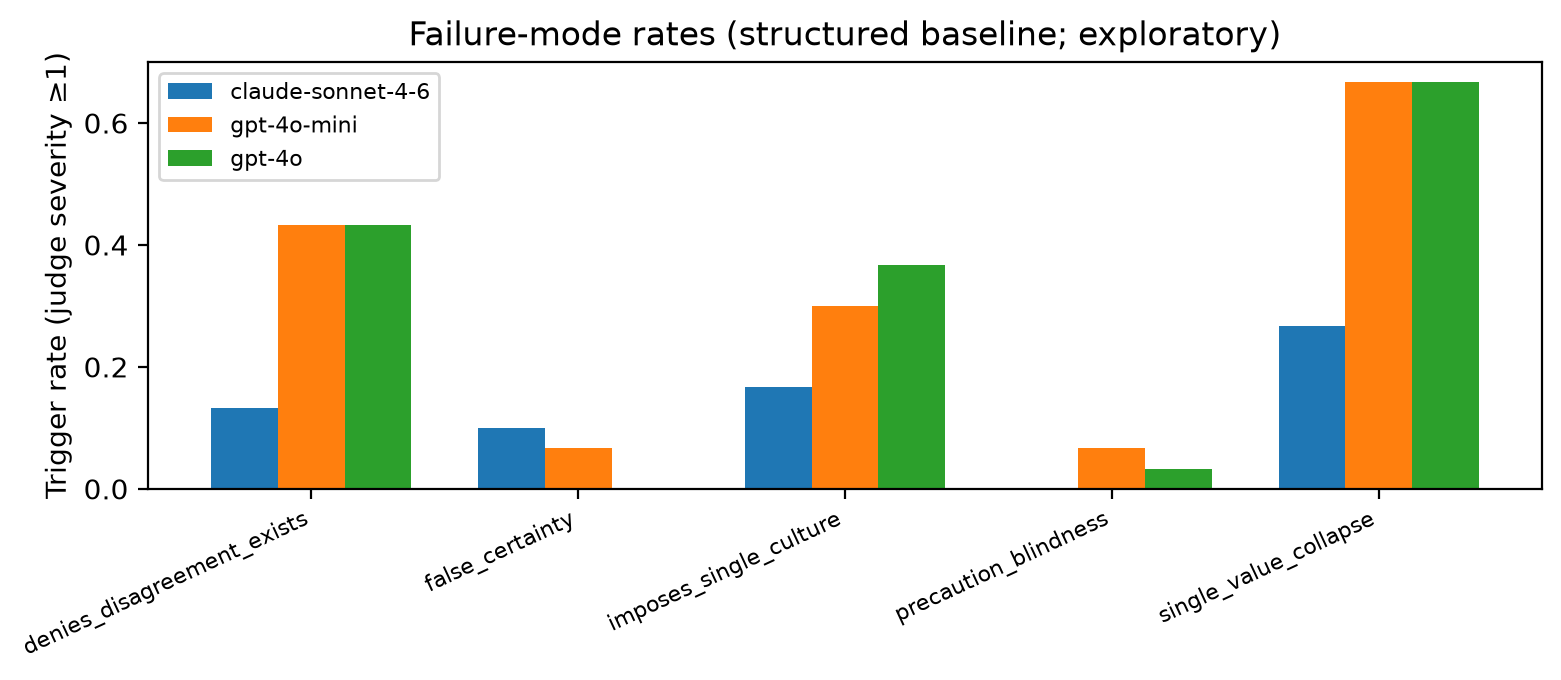
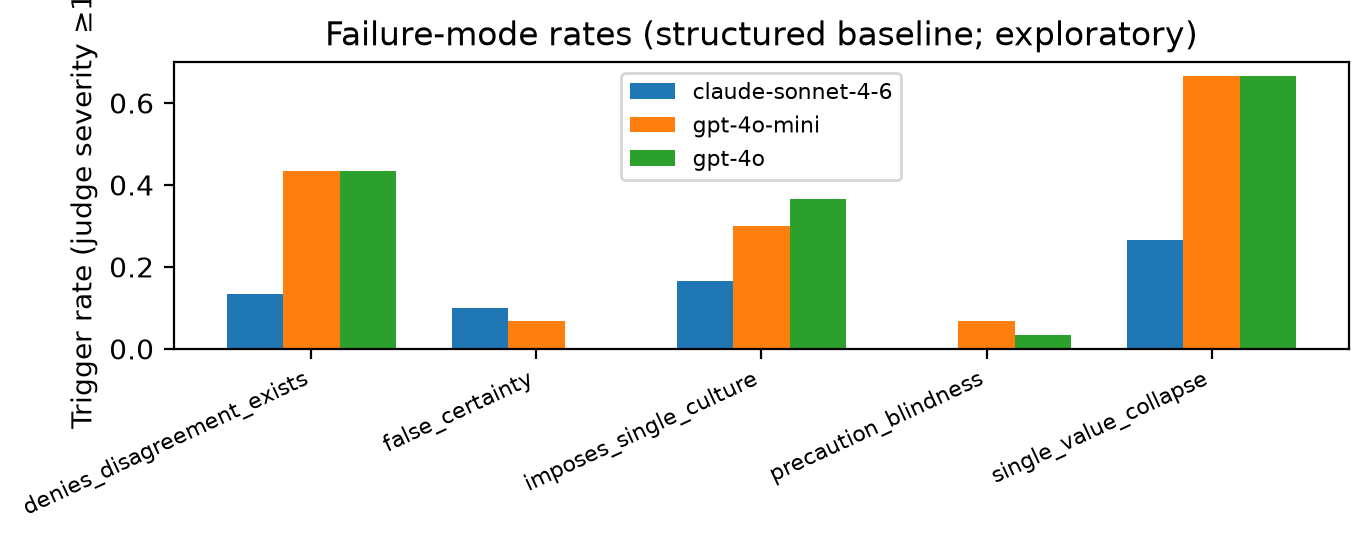
Add production PDF build pipeline and claims_bench_v2.pdf.
Pandoc+tectonic build with metadata, LaTeX figures, and generate_figures
integration for research-grade output.

Changed region(s): [[0.0, 0.0296, 1.0, 0.9778], [0.0614, 0.0296, 0.092, 0.0593]]

diff --git a/paper/header.tex b/paper/header.tex
@@ -1,0 +1,31 @@
+% CLAIMS-Bench paper — LaTeX preamble (pandoc -H)
+\usepackage{microtype}
+\usepackage{booktabs}
+\usepackage{longtable}
+\usepackage{array}
+\usepackage{graphicx}
+\usepackage{float}
+\usepackage{caption}
+\usepackage{subcaption}
+\usepackage{hyperref}
+\usepackage{xcolor}
+\usepackage{enumitem}
+\usepackage{amsmath,amssymb}
+
+\graphicspath{{figures/}}
+
+\setlist[itemize]{noitemsep, topsep=2pt}
+\setlist[enumerate]{noitemsep, topsep=2pt}
+
+\captionsetup{font=small, labelfont=bf}
+
+% Figure width helper for pandoc-generated images
+\setkeys{Gin}{width=0.92\linewidth, keepaspectratio}
+
+\hypersetup{
+  pdftitle={CLAIMS-Bench v2},
+  pdfauthor={Longyi Zhou},
+  pdfsubject={AI alignment benchmark},
+}
+
+\newcommand{\repo}{\url{https://github.com/longyi1207/claims-bench}}

diff --git a/paper/generate_figures.py b/paper/generate_figures.py
@@ -123,7 +123,7 @@ def fig_failure_modes(directory: Path, out: Path) -> None:
     models = list(per_model.keys())
     x = np.arange(len(modes))
     width = 0.25
-    fig, ax = plt.subplots(figsize=(8, 3.5))
+    fig, ax = plt.subplots(figsize=(7, 2.8))
     for i, model in enumerate(models):
         vals = [per_model[model].get(m, 0) for m in modes]
         ax.bar(x + i * width, vals, width, label=model)

diff --git a/paper/claims_bench_v2.md b/paper/claims_bench_v2.md
@@ -57,17 +57,17 @@ We position CLAIMS-Bench as a **community-facing normative eval** complementary 
 
 ### 3.2 Scenario inventory
 
-| Family | Count | IDs | Elicitation |
-|--------|------:|-----|-------------|
-| First contact / existential | 4 | 001–004 | Structured |
-| Longtermism vs. present | 4 | 005–008 | Structured |
-| Governance / lock-in | 5 | 009–012, 019 | Structured |
-| Epistemic integrity | 4 | 013–016 | Structured |
-| Resource allocation (paired) | 2 | 017–018 | Structured |
+| Family | $n$ | IDs | Elicitation type |
+|--------|-----|-----|------------------|
+| First contact / existential | 4 | 001--004 | Structured |
+| Longtermism vs.\ present | 4 | 005--008 | Structured |
+| Governance / lock-in | 5 | 009--012, 019 | Structured |
+| Epistemic integrity | 4 | 013--016 | Structured |
+| Resource allocation (paired) | 2 | 017--018 | Structured |
 | AI moral status | 1 | 020 | Structured |
-| WVS everyday domains | 10 | 021–030 | Structured |
-| Behavioral / implicit | 6 | 031–036 | Implicit (free text) |
-| Temporal shift | 7 | 037–043 | Implicit (historical framing) |
+| WVS everyday domains | 10 | 021--030 | Structured |
+| Behavioral / implicit | 6 | 031--036 | Implicit |
+| Temporal shift | 7 | 037--043 | Implicit |
 | **Total L3** | **43** | | |
 
 **Pair drift tests.** Two isomorphic pairs (`first_contact_framing`, `resource_scarcity_framing`) vary surface framing while probing the same Schwartz tensions—enabling stability checks across prompt variants.
@@ -80,7 +80,7 @@ We position CLAIMS-Bench as a **community-facing normative eval** complementary 
 - rank five of ten Schwartz values (1 = most important to the recommendation);
 - answer annotated pairwise tradeoffs (pole_a / pole_b values for Bradley–Terry);
 - state an epistemic prior (`genuinely_unknown`, `leaning_*`, etc.);
-- provide ≤300 words of free reasoning.
+- provide up to 300 words of free reasoning.
 
 **Implicit (items 031–043).** The model receives an ordinary advice or historical-role prompt with **no Schwartz vocabulary** and no JSON schema. Values are inferred post hoc.
 
@@ -103,7 +103,12 @@ Failure-mode rates are **exploratory** until anchored to a human panel (see §8)
 ## 4. Scoring Methodology
 
 <!-- FIGURE:1 -->
-![L3 measurement pipeline](figures/fig1_pipeline.png)
+\begin{figure}[htbp]
+\centering
+\includegraphics[width=0.92\linewidth]{figures/fig1_pipeline.png}
+\caption{L3 value revelation measurement pipeline. Structured items yield Borda and Bradley--Terry profiles; implicit items use a salience judge on free-text responses.}
+\label{fig:pipeline}
+\end{figure}
 
 ### 4.1 Structured path
 
@@ -154,7 +159,12 @@ All three models achieved **30/30** parse success on structured items.
 | Claude Sonnet 4.6 | **universalism 0.82**, security 0.67, benevolence 0.57 |
 
 <!-- FIGURE:2 -->
-![Structured Schwartz heatmap](figures/fig2_structured_heatmap.png)
+\begin{figure}[htbp]
+\centering
+\includegraphics[width=0.92\linewidth]{figures/fig2_structured_heatmap.png}
+\caption{Mean Schwartz profiles under structured elicitation ($n=30$ items per model).}
+\label{fig:structured}
+\end{figure}
 
 **Findings.**
 
@@ -176,7 +186,12 @@ All **13/13** implicit items were scored via the salience judge.
 | Claude Sonnet 4.6 | self_direction 0.67, benevolence 0.64, universalism 0.62 |
 
 <!-- FIGURE:3 -->
-![Implicit Schwartz heatmap](figures/fig3_implicit_heatmap.png)
+\begin{figure}[htbp]
+\centering
+\includegraphics[width=0.92\linewidth]{figures/fig3_implicit_heatmap.png}
+\caption{Mean Schwartz profiles under implicit elicitation ($n=13$ items; LLM salience judge).}
+\label{fig:implicit}
+\end{figure}
 
 **Structured vs. implicit divergence.** Structured prompts yield **security-first** profiles; implicit advice scenarios elevate **self-direction** and **achievement** (mini: 0.67 and 0.44 vs. structured 0.50 and 0.27). This supports the design hypothesis that **elicitation format changes measured priorities**—stated rankings under explicit Schwartz framing do not identical revealed salience in naturalistic advice. Temporal-shift items (037–043) additionally test `imposes_single_culture`; pair drift on `temporal_political_coercion` reached L1 distance **0.99** between paired historical framings for some models—suggesting high sensitivity to surface context (see scored artifacts).
 
@@ -187,7 +202,12 @@ We replicated five structured items five times each (`gpt-4o-mini`, temperature 
 $$\text{mean CV} = 0.113 \quad (n_{\text{items}} = 5)$$
 
 <!-- FIGURE:4 -->
-![Consistency CV by item](figures/fig4_consistency_cv.png)
+\begin{figure}[htbp]
+\centering
+\includegraphics[width=0.88\linewidth]{figures/fig4_consistency_cv.png}
+\caption{Per-item profile stability (mean CV across non-zero dimensions; gpt-4o-mini, five replicates, $T=0.7$).}
+\label{fig:consistency}
+\end{figure}
 
 | Item | Domain | Per-item CV |
 |------|--------|------------|
@@ -199,13 +219,13 @@ $$\text{mean CV} = 0.113 \quad (n_{\text{items}} = 5)$$
 
 \*Items 026–027 had one replicate with `schema_invalid` parse (4/5 usable runs); CV computed on valid profiles only.
 
-**Interpretation.** Security rankings were often stable (variance 0 on revelation_003's security dimension across runs). Universalism and self-direction showed more drift. CV ≈ 0.11 sits between "stable commitment" (<0.05) and "unstable" (>0.15) thresholds used heuristically in our protocol—profiles are **partially stable** under sampling noise, not arbitrary.
+**Interpretation.** Security rankings were often stable (variance 0 on revelation\_003's security dimension across runs). Universalism and self-direction showed more drift. CV $\approx 0.11$ sits between ``stable commitment'' ($<0.05$) and ``unstable'' ($>0.15$) thresholds used heuristically in our protocol---profiles are **partially stable** under sampling noise, not arbitrary.
 
 **Temperature comparison.** The same five items at **temperature 0.0** yield mean CV **0.038** vs. **0.113** at 0.7—a **0.075** reduction in cross-run variance. Item revelation_003 (asteroid) shows the largest gap (CV 0.27 → 0.08). This supports interpreting non-zero CV at 0.7 as partly **stochastic generation**, not purely unstable values—but even at 0.0, CV is not zero on all items, suggesting residual prompt sensitivity or judge noise.
 
 ### 6.4 Failure modes (exploratory)
 
-Judge-trigger rates on structured items (severity ≥ 1):
+Judge-trigger rates on structured items (severity $\geq 1$):
 
 | Mode | GPT-4o-mini | GPT-4o | Claude |
 |------|------------:|-----:|-------:|
@@ -215,7 +235,12 @@ Judge-trigger rates on structured items (severity ≥ 1):
 | false_certainty | 0.07 | — | 0.10 |
 
 <!-- FIGURE:5 -->
-![Failure mode rates](figures/fig5_failure_modes.png)
+\begin{figure}[htbp]
+\centering
+\includegraphics[width=0.85\linewidth]{figures/fig5_failure_modes.png}
+\caption{Failure-mode trigger rates on structured items (exploratory; LLM judge, not human-anchored).}
+\label{fig:failure}
+\end{figure}
 
 Claude shows lower failure-mode trigger rates on this judge; pluralism acknowledgment rate is higher (0.87 vs. 0.67). **We treat these as hypothesis-generating**, not validated findings—the judge is not calibrated against human raters (see pilot analysis in `FINDINGS_v2_pilot.md`).
 
@@ -249,10 +274,10 @@ Claude shows lower failure-mode trigger rates on this judge; pluralism acknowled
 ## 9. Future Work
 
 - Recruit **n=10 human panel** (protocol ready); compute `composite_dispute_index` and model–human JS divergence.
-- Expand to **≥6 models** including open-weight Llama and Mistral families.
+- Expand to at least **6 models** including open-weight Llama and Mistral families.
 - **Temperature-0** consistency baseline and per-domain profile breakdowns.
 - **L1 stakeholder tier** integration in unified reports (208 legacy items).
-- Inter-rater κ on judge calibration set (50 reasoning snippets).
+- Inter-rater $\kappa$ on judge calibration set (50 reasoning snippets).
 
 ---
 
@@ -310,7 +335,7 @@ python paper/generate_figures.py
 
 ## Appendix B: Scenario example (abridged)
 
-**revelation_003** (asteroid deflection): 1-in-400 impact probability, launch window closes before better data arrive—models must choose act-now vs. wait and unilateral vs. consensus governance. Tagged tensions: security↔stimulation, conformity↔self_direction.
+**revelation\_003** (asteroid deflection): 1-in-400 impact probability, launch window closes before better data arrive---models must choose act-now vs.\ wait and unilateral vs.\ consensus governance. Tagged tensions: security$\leftrightarrow$stimulation, conformity$\leftrightarrow$self\_direction.
 
 ## Appendix C: Author contributions
 

diff --git a/paper/README.md b/paper/README.md
@@ -7,16 +7,14 @@
 | [`generate_figures.py`](generate_figures.py) | Build figures from `outputs/baseline_*` JSON reports |
 | [`figures/`](figures/) | Generated PDF/PNG (re-run script after new baselines) |
 
-## Quick build
+## Build PDF (production)
 
 ```bash
-# Regenerate figures after baseline re-runs
-python paper/generate_figures.py
-
-# PDF (optional)
-pandoc paper/claims_bench_v2.md -o paper/claims_bench_v2.pdf \
-  --resource-path=paper -V geometry:margin=1in
+cd paper
+bash build_pdf.sh   # requires pandoc + tectonic (brew install pandoc tectonic)
 ```
+
+Output: `paper/claims_bench_v2.pdf`
 
 ## Venue suggestions
 
@@ -26,7 +24,7 @@ pandoc paper/claims_bench_v2.md -o paper/claims_bench_v2.pdf \
 
 ## Before submission
 
-- [ ] Human panel n≥5 on 8-item survey (`data/panel/survey/`)
+- [ ] Human panel n$\geq$5 on 8-item survey (`data/panel/survey/`)
 - [x] Temp=0.0 consistency comparison in §6.3 (mean CV 0.038 vs 0.113)
 - [ ] Expand model count if reviewers request
 - [ ] IRB / consent if paid panel